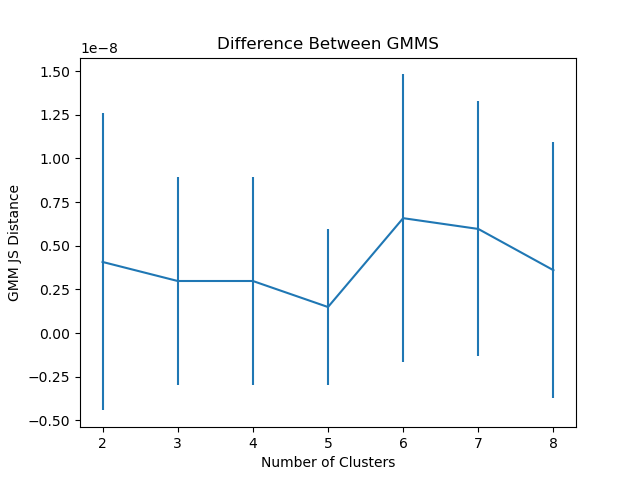
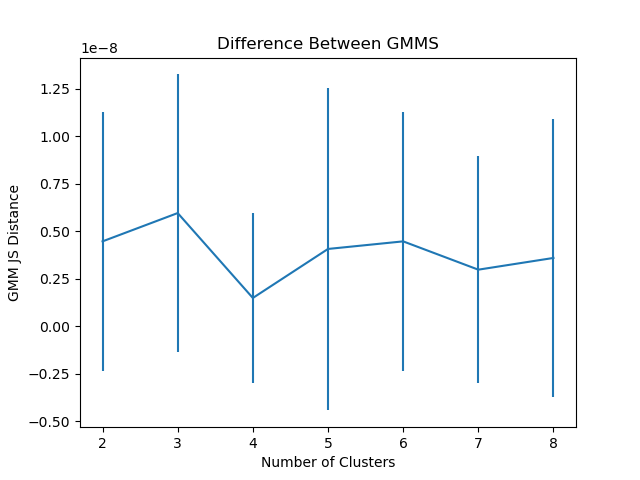
fix axes to be inverted only for cloud pressure

diff --git a/scripts/processes.py b/scripts/processes.py
@@ -34,9 +34,8 @@ def create_map_comp_figure(keywords, latRng, lngRng, cm_num, n_comp, pred, input
     fig2, axis2 = pl.subplots(3, 1, constrained_layout = True)
     map1 = pre.get_patch(keywords[0], latRng, lngRng, cm_num)
     map2 = pre.get_patch(keywords[1], latRng, lngRng, cm_num)
+
     MP.create_cluster_map(axis2[0], n_comp, pred, input_arr, subset_shape, latRng, lngRng, cmap, cm_num)
-    print(keywords[0])
-    print(color_dict[keywords[0]])
     MP.plot_patch(map1, latRng, lngRng, color_dict[keywords[0]], axis2[1], param_ranges[0][0], param_ranges[0][1],  keyword_dict[keywords[0]], cm_num, fig2, True)
     MP.plot_patch(map2, latRng, lngRng, color_dict[keywords[1]], axis2[2], param_ranges[1][0], param_ranges[1][1], keyword_dict[keywords[1]], cm_num, fig2, True)
     fig2.suptitle(create_plot_title(keywords, latRng, lngRng, n_comp, threshold), fontsize = 10)
@@ -56,14 +55,13 @@ def create_plot_figure(keywords, latRng, lngRng, cm_num, n_comp, pred, input_arr
 
 def output_comparison_and_plot(date, keywords, param_ranges, 
                            latRng = [85, 95], lngRng = [230, 330], 
-                           n_comp = 4, cov_type = "full", cm_num = 1, threshold = 0.75):
+                           n_comp = 4, cov_type = "full", cm_num = 1, threshold = 0.8):
     [input_arr, subset_shape] = pre.get_input_array(keywords, param_ranges, latRng, lngRng, cm_num)
     pred = CL.create_clusters(input_arr[:, 0:len(keywords)], cov_type, n_comp, config["soft_clustering"], threshold)
     stats = STAT.get_all_stats(pred, keywords, input_arr[:, len(keywords)], n_comp, latRng, lngRng, cm_num)
     pred = STAT.reassign_clusters(np.array(pred), np.swapaxes(stats[:, :, 0], 0, 1), np.array(param_ranges))
     # create scatter plots figure
-    
-    print("plotting...")
+  
     cmap = ListedColormap(colors[:n_comp])
     create_plot_figure(keywords, latRng, lngRng, cm_num, n_comp, pred, input_arr, subset_shape, param_ranges, threshold, cmap, cov_type)
     create_map_comp_figure(keywords, latRng, lngRng, cm_num, n_comp, pred, input_arr, subset_shape, param_ranges, threshold, cmap)
@@ -79,7 +77,7 @@ def output_cluster_map_and_plot(date, keywords, param_ranges,
     pred = STAT.reassign_clusters(np.array(pred), np.swapaxes(stats[:, :, 0], 0, 1), np.array(param_ranges))
     cmap = ListedColormap(colors[:n_comp])
     fig, axis = pl.subplots(2, 1)
-    print("plotting...")
+  
     MP.create_cluster_map(axis[0], n_comp, pred, input_arr, subset_shape, latRng, lngRng, cmap, cm_num)
     PL.create_cluster_plot(axis[1],  keywords, 0, 1, input_arr, pred,  n_comp, cov_type, latRng, lngRng, cmap, cm_num)
     fig.suptitle(create_plot_title(keywords, latRng, lngRng, n_comp, threshold), fontsize = 10)
@@ -98,7 +96,7 @@ def output_cluster_map_and_plots(date, keywords, param_ranges,
     cmap = ListedColormap(colors[:n_comp])
     #sil_score = str(round(silhouette_score(input_arr, pred), 3))
     fig, axis = pl.subplots(3, 1)
-    print("plotting...")
+  
     indices = input_arr[:, input_arr.shape[1] - 1]
 
 
@@ -123,7 +121,7 @@ def output_cluster_map(date, keywords, param_ranges,
     stats = STAT.get_all_stats(pred, keywords, input_arr[:, len(keywords)], n_comp, latRng, lngRng, cm_num)
     pred = STAT.reassign_clusters(np.array(pred), np.swapaxes(stats[:, :, 0], 0, 1), np.array(param_ranges))
     cmap = ListedColormap(colors[:n_comp])
-    print("plotting...")
+
     fig, axis = pl.subplots(1, 1)
     MP.create_cluster_map(axis, n_comp, pred, input_arr, subset_shape, latRng, lngRng, cmap, cm_num)
     fig.suptitle(create_plot_title(keywords, latRng, lngRng, n_comp, threshold), fontsize = 10)
@@ -142,7 +140,7 @@ def output_cluster_plot(date, keywords, param_ranges,
     pred = STAT.reassign_clusters(np.array(pred), np.swapaxes(stats[:, :, 0], 0, 1), np.array(param_ranges))
     
     cmap = ListedColormap(colors[:n_comp])
-    print("plotting...")
+
     fig, axis = pl.subplots(1, 1)
     PL.create_cluster_plot(axis, keywords, 0, 1, input_arr, pred,  n_comp, cov_type, latRng, lngRng, cmap, cm_num)
     fig.suptitle(create_plot_title(keywords, latRng, lngRng, n_comp, threshold), fontsize = 10)
@@ -159,7 +157,6 @@ def create_file_name(keywords, latRng, lngRng, n_comp, suffix, cm_num, threshold
 
 def create_plot_title(keywords, latRng, lngRng, n_comp, threshold):
     date = pre.get_date(keywords)
-    print(config["soft_clustering"])
     prob_str = f'Threshold {threshold}' if config["soft_clustering"] else ""
     return f'{date} Lat: {latRng[0]} - {latRng[1]}, Lon: {lngRng[0]} - {lngRng[1]}, {n_comp} components \n {prob_str}'
   #longitude range 230 - 330 for sys 1  
@@ -185,9 +182,9 @@ def create_map_comparison(date, keywords, param_ranges,
 
 #output_comparison_and_plot("20251016", ["NH3", "PCld"], [[0, 300], [1000,  3000]], [75, 105], [0, 200], 4)
 #create_map_comparison("20251016", ["NH3", "PCld"], [[0, 300], [1000,  3000]], [75, 105], [0, 200], 4)
-#output_comparison_and_plot("20251016", ["AOI", "CI"], [[0.1, 0.4], [0.4, 0.8]], [75, 105], [0, 200], 4)
+output_comparison_and_plot("20251016", ["AOI", "CI"], [[0.1, 0.4], [0.4, 0.8]], [75, 105], [0, 200], 4)
 
-output_cluster_map_and_plots("20251016", ["NH3", "PCld", "AOI", "CI"], [[0, 300], [1000,  3000], [0.1, 0.4], [0.4, 0.8]], [75, 105], [0, 200], 4)
+#output_cluster_map_and_plots("20251016", ["NH3", "PCld", "AOI", "CI"], [[0, 300], [1000,  3000], [0.1, 0.4], [0.4, 0.8]], [75, 105], [0, 200], 4)
 #output_cluster_map_and_plot("20251016", ["NH3", "PCld"], [[0, 300], [1000,  3000]], [75, 105], [0, 200], 4)
 
 #RGB clustering longitude 0 - 200, latitude 75-105

diff --git a/scripts/clustering/gmm_distance.py b/scripts/clustering/gmm_distance.py
@@ -1,0 +1,81 @@
+import numpy as np
+from sklearn.mixture import GaussianMixture as GMM
+from sklearn import metrics
+from sklearn.model_selection import GridSearchCV
+import pandas as pd
+import scripts.preprocessing.preprocessing as pre
+import scripts.clustering.clusters as CL 
+import pylab as plt
+from sklearn.pipeline import Pipeline
+from sklearn.preprocessing import StandardScaler
+from sklearn.model_selection import train_test_split
+
+
+def get_js(m1, m2, n_sample = 10**5):
+   
+    x = m1.sample(n_sample)[0]
+    log_1_x = m1.score_samples(x)
+    log_2_x = m2.score_samples(x)
+    log_mix_X = np.logaddexp(log_1_x, log_2_x)
+
+    y = m1.sample(n_sample)[0]
+    log_1_y = m1.score_samples(y)
+    log_2_y = m2.score_samples(y)
+    log_mix_Y = np.logaddexp(log_1_y, log_2_y)
+
+    squared_dist = (log_1_x.mean() - (log_mix_X.mean() - np.log(2))
+            + log_2_y.mean() - (log_mix_Y.mean() - np.log(2))) / 2
+    return np.sqrt(np.maximum(0, squared_dist))
+
+def create_js_plot(X):
+    n_clusters = np.arange(2, 9)
+    sample_size = 20000
+    iterations = 10
+    results = []
+    res_errs = []
+    
+    for n in n_clusters:
+        dist = []
+        for _ in range(iterations):
+            X_sub = X[np.random.choice(len(X), sample_size)]
+
+            # create 50/50 data split
+            x1, x2 = train_test_split(X_sub, test_size = 0.5)
+
+            #fit models
+            gmm_model = GMM(n_components=n, covariance_type="full")
+            #pipe = Pipeline([('scaler', StandardScaler()), ('gmm', gmm_model)])
+            #gmm_1 = pipe.fit(x1)
+            #gmm_2 = pipe.fit(x2)
+
+            scaled1 = StandardScaler().fit(x1).transform(x1)
+            scaled2 = StandardScaler().fit(x2).transform(x2)
+            gmm_1 = gmm_model.fit(scaled1)
+            gmm_2 = gmm_model.fit(scaled2)
+            dist.append(get_js(gmm_1, gmm_2))
+        result = np.mean(np.array(dist))
+        res_err = np.std(np.array(dist))
+        results.append(result)
+        res_errs.append(res_err)
+
+    fig, ax = plt.subplots(1, 1)
+    plt.errorbar(n_clusters, results, yerr = res_errs)
+    plt.title("Difference Between GMMS")
+    plt.xticks(n_clusters)
+    plt.xlabel("Number of Clusters")
+    plt.ylabel("GMM JS Distance")
+    return fig
+
+
+def run_js_dist(keywords, param_ranges, 
+                           latRng = [85, 95], lngRng = [230, 330], 
+                            cm_num = 1):
+    [input_arr, subset_shape] = pre.get_input_array(keywords, param_ranges, latRng, lngRng, cm_num)
+    pix_arr = input_arr[:, 0: len(keywords)]
+    fig = create_js_plot(pix_arr)
+    keyword_str = "_".join(keywords)
+    fig.savefig(f"cluster_evaluations/GMM_distance_{keyword_str}")
+    
+
+run_js_dist(["AOI", "CI"], [[0.1, 0.4], [0.4, 0.8]], [75, 105], [0, 200])
+run_js_dist(["NH3", "PCld"], [[0, 300], [1000, 3000]], [75, 105], [0, 200])

diff --git a/scripts/plots/plots.py b/scripts/plots/plots.py
@@ -20,10 +20,10 @@ def create_cluster_plot(ax, keywords, index_x, index_y, input_arr, pred, n_comp,
     keywords, 
     
     -----------
-
-
     """
-    ax.yaxis.set_inverted(True)
+    
+    if(keywords[index_y] == "PCld"):
+        ax.yaxis.set_inverted(True)
     x = input_arr[:, index_x]
     y = input_arr[:, index_y]
     pred = np.array(pred)
@@ -32,7 +32,7 @@ def create_cluster_plot(ax, keywords, index_x, index_y, input_arr, pred, n_comp,
         mask = pred == cl
         x_cl = x[mask]
         y_cl = y[mask]
-        print(mask)
+      
         x_mean = np.mean(x_cl)
         y_mean = np.mean(y_cl)
         x_std = np.std(x_cl)
@@ -63,27 +63,7 @@ def create_cluster_plot(ax, keywords, index_x, index_y, input_arr, pred, n_comp,
         h.set_alpha(1)
         h.set_sizes([50])
 
-    """
-    ax.scatter(x, y,c = pred,s = 1, cmap = cmap, alpha = 0.01)
 
-    clusters = np.unique(pred)
-
-    for cl in clusters:
-        if cl == -1:
-            continue
-        mask =  pred == cl
-        x_cl = x[mask]
-        y_cl = y[mask]
-        x_mean = np.mean(x_cl)
-        y_mean = np.mean(y_cl)
-        x_std = np.std(x_cl)
-        y_std = np.std(y_cl)
-        ax.scatter(x_mean, y_mean, color = "black", s = 50, marker = 'x')
-        print(f"cluster {cl}: mean=({x_mean:.2f}, {y_mean:.2f}), std=({x_std:.2f}, {y_std:.2f})")
-    
-    ax.set_xlabel(keywords[index_x])
-    ax.set_ylabel(keywords[index_y])
-    """
     
     
     return 0

diff --git a/scripts/clustering/silhouette.py b/scripts/clustering/silhouette.py
@@ -67,9 +67,9 @@ def run_sil_graph(keywords, param_ranges,
     keyword_str = '_'.join(keywords)
     fig.savefig(f"cluster_evaluations/silhouette_chart_{keyword_str}")
 
-#run_sil_graph(["NH3", "PCld"], [ [0, 300], [1000, 3000]], [75, 105], [0, 200])
-#run_sil_graph(["AOI", "CI"], [[0, 1], [0, 1]], [75, 105], [0, 200])
+run_sil_graph(["NH3", "PCld"], [ [0, 300], [1000, 3000]], [75, 105], [0, 200])
+run_sil_graph(["AOI", "CI"], [[0.1, 0.4], [0.4, 0.8]], [75, 105], [0, 200])
 
-run_sil_graph(["275", "395", "502", "619", "631", "645", "673", "727", "889"], 
-                      [[0, 1], [0,  1], [0,  1], [0,  1], [0,  1], [0,  1], [0,  1], [0,  1], [0,  1]], 
-                      [75, 105], [0, 200], 4)
+#run_sil_graph(["275", "395", "502", "619", "631", "645", "673", "727", "889"], 
+  #                    [[0, 1], [0,  1], [0,  1], [0,  1], [0,  1], [0,  1], [0,  1], [0,  1], [0,  1]], 
+ #                     [75, 105], [0, 200], 4)

diff --git a/scripts/cluster_stats.py b/scripts/cluster_stats.py
@@ -78,7 +78,7 @@ def reassign_clusters(pred, stats, param_ranges):
     
     
     """
-    print(stats)
+  
     cluster_means = quantify_clusters(stats, param_ranges)
     indices = np.argsort(cluster_means)
     return indices[pred]
@@ -92,7 +92,7 @@ def quantify_clusters(stats, param_ranges):
     stats - nd array, first axis is dimension, second axis, is cluster means for that dimension
     param_ranges - similiarly ordered cross-dimensional array with min and max value for each dimension
     """
-    print(stats)
+
     param_swapped = np.swapaxes(param_ranges, 0, 1)
     normed_stats = (stats - param_swapped[0]) / (param_swapped[1] - param_swapped[0])
     return np.mean(normed_stats, axis = 1)

diff --git a/scripts/plots/mapping.py b/scripts/plots/mapping.py
@@ -31,9 +31,7 @@ def plot_cluster_patch(patch, LatLims, LonLims, cmap, axis, v_min, v_max, title,
         to plot a patch of clusters with appropriate longitude/latitude scales
     '''  
     n = v_max - v_min
-    print("debug")
-    print(np.unique(patch))
-    print(cmap)
+ 
     #bounds = [i for i in range(v_max - v_min + 1)]
     bounds = np.arange(v_min - 0.5, v_max + 0.5, 1)
     norm = colors.BoundaryNorm(bounds, cmap.N)

diff --git a/config/config.py b/config/config.py
@@ -3,7 +3,7 @@ config = {
     'input': "data/HST/20251016UT/Sys1",
     #'input': "data/L4/20251214UT",
     "output": "data/visualizations/HST/20251016UT/lon_0-200",
-    "soft_clustering": False,
+    "soft_clustering": True,
     
 
 }
